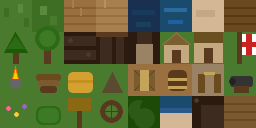
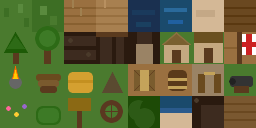
Fix movement in Jamestown, remove green from ship, add animals
- Jamestown: moved campfire away from player start point (was blocking
  movement with collision=true tile directly on spawn)
- Ship: replaced all green-background tiles (cannon, anchor, lantern,
  wheel) with plain deck tiles — those objects exist as NPC events
- Ship: fixed flag tile background from green to wood brown
- Added chicken and pig below deck (ships carried livestock to Virginia)
- Chicken sprite: white body, red comb, yellow beak, orange feet
- Pig sprite: pink body, snout, curly tail

Changed region(s): [[0.875, 0.25, 1.0, 0.5]]

diff --git a/main/spritesheets/characters/characters.ts b/main/spritesheets/characters/characters.ts
@@ -94,6 +94,20 @@ export class RabbitSprite {}
 export class BerrySprite {}
 
 @Spritesheet({
+    id: 'chicken-sprite',
+    image: require('./chicken.png'),
+    ...RMSpritesheet(3, 4)
+})
+export class ChickenSprite {}
+
+@Spritesheet({
+    id: 'pig-sprite',
+    image: require('./pig.png'),
+    ...RMSpritesheet(3, 4)
+})
+export class PigSprite {}
+
+@Spritesheet({
     id: 'hero',
     image: require('./hero.png'),
     ...RMSpritesheet(3, 4)

diff --git a/main/events/chicken.ts b/main/events/chicken.ts
@@ -1,0 +1,12 @@
+import { RpgEvent, EventData, RpgPlayer } from '@rpgjs/server'
+
+@EventData({
+    name: 'chicken',
+    hitbox: { width: 8, height: 8 }
+})
+export default class ChickenEvent extends RpgEvent {
+    onInit() { this.setGraphic('chicken-sprite') }
+    async onAction(player: RpgPlayer) {
+        await player.showText("Bawk bawk! The chicken pecks at the floor.")
+    }
+}

diff --git a/main/events/pig.ts b/main/events/pig.ts
@@ -1,0 +1,12 @@
+import { RpgEvent, EventData, RpgPlayer } from '@rpgjs/server'
+
+@EventData({
+    name: 'pig',
+    hitbox: { width: 8, height: 8 }
+})
+export default class PigEvent extends RpgEvent {
+    onInit() { this.setGraphic('pig-sprite') }
+    async onAction(player: RpgPlayer) {
+        await player.showText("Oink! The pig snuffles around looking for scraps.")
+    }
+}
